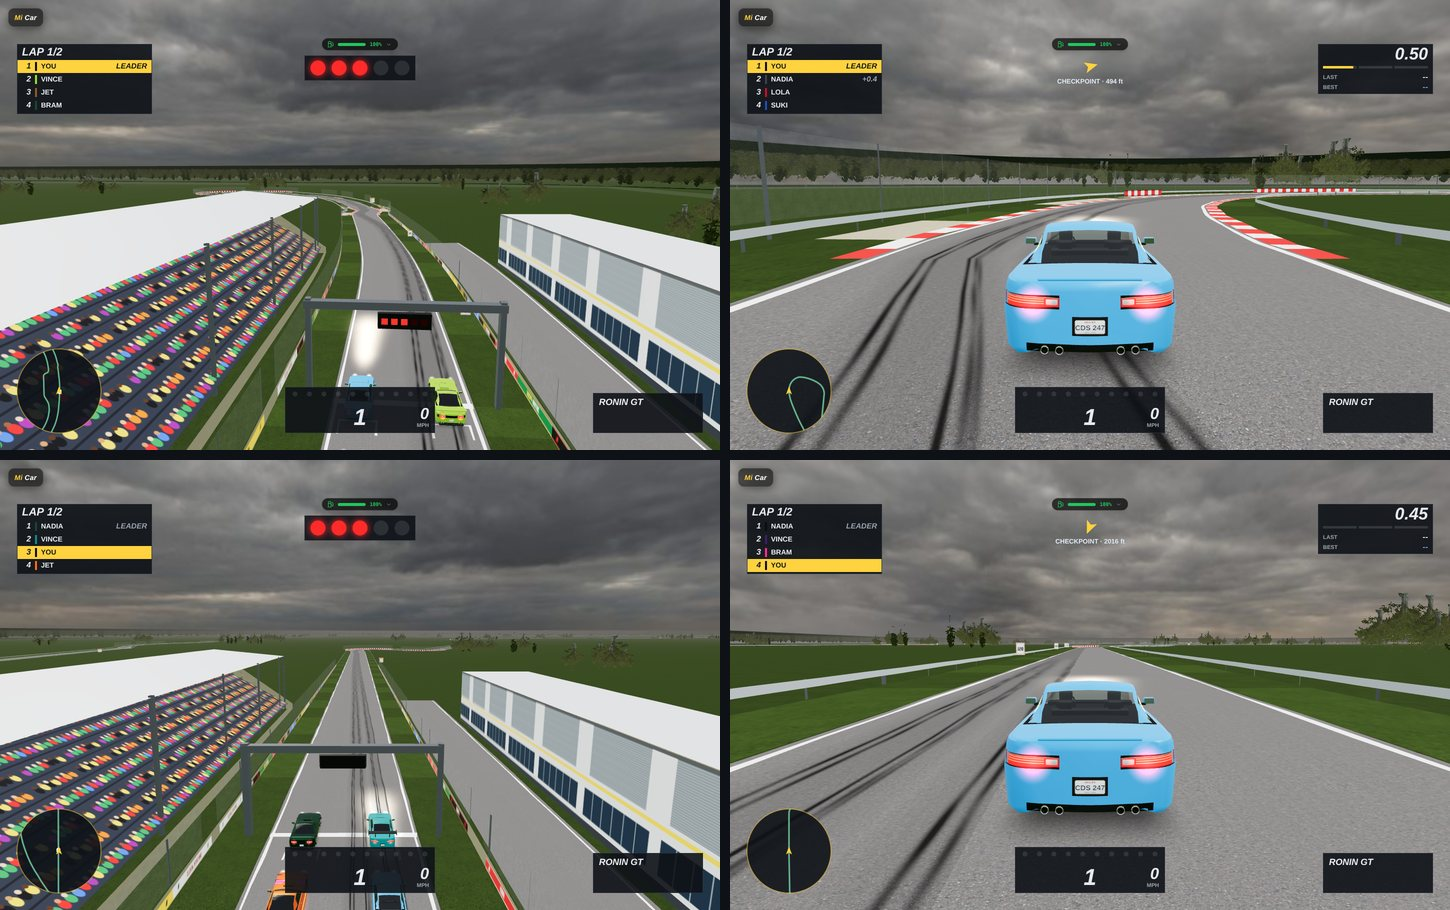
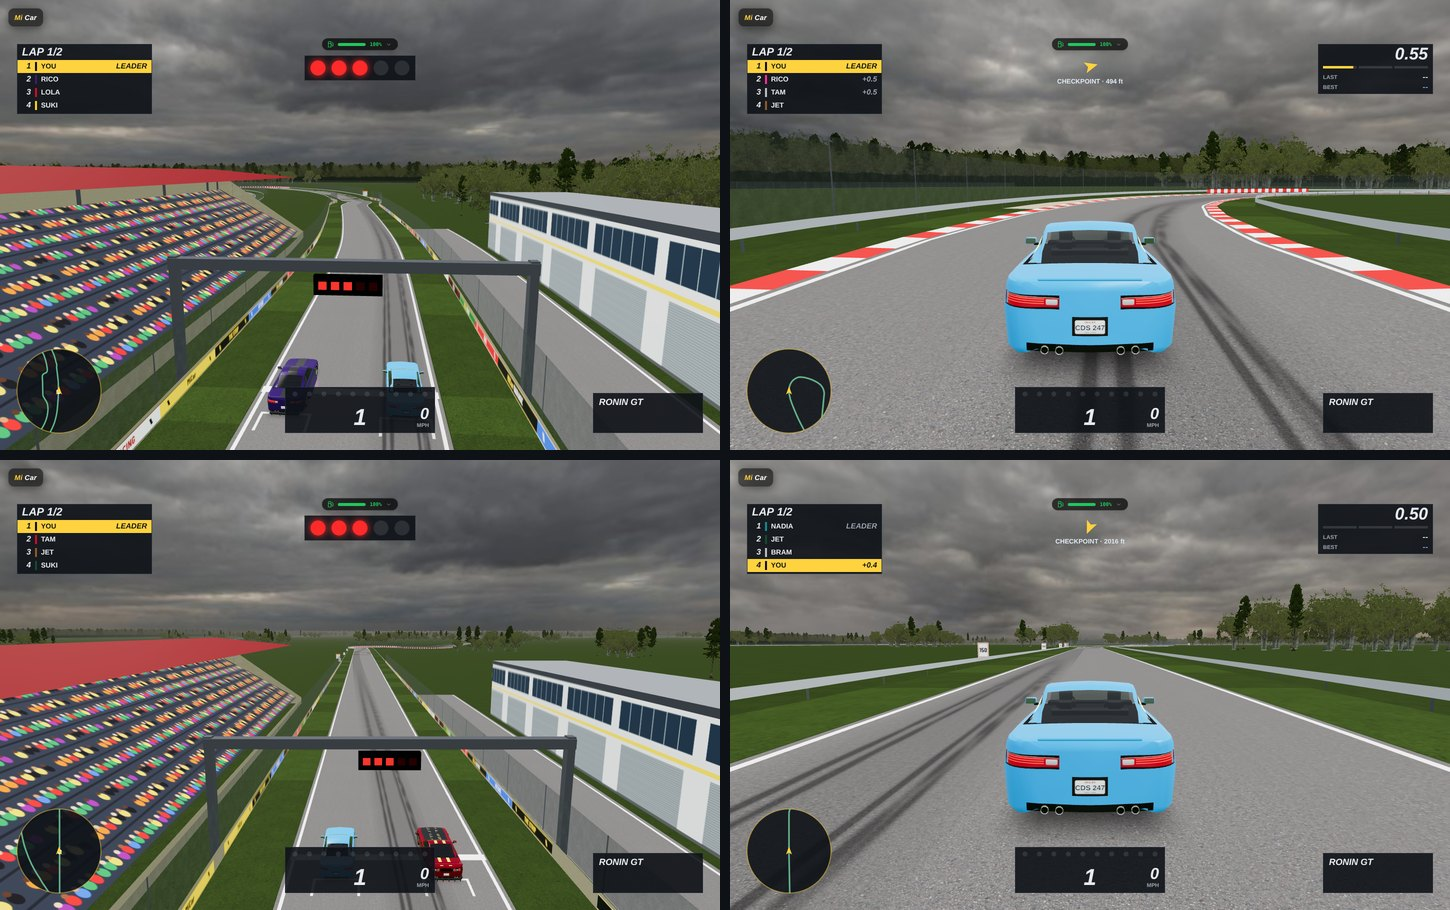
Race UI stage 2: screenshots of the final build; design notes as built
The PR montages from the final smoke run (Harbour and Ardennes on the grid, Figure Eight and
Royal Park mid-lap; the phone at Harbour and Royal Park), and section 5b of the design: what
three reviews changed, including the physics walls on five circuits.

Claude-Session: https://claude.ai/code/session_01UryQtKAC4WHUtcc2hBNj4p

diff --git a/docs/superpowers/specs/2026-11-13-track-look-design.md b/docs/superpowers/specs/2026-11-13-track-look-design.md
@@ -71,6 +71,34 @@ The first screenshots beside the clone's led to these changes (plan Task 7):
 - **The start buildings run on past the line**, as at the clone's start, so the grid sees the grandstand on its left and the pits on its right: grandstand from 120 m before the line to 50 m after, pit lane −200 to +60 m, pits −150 to +40 m. A band never sits on the inside of a bend tighter than its depth allows (its far edge within 0.6 of the radius), and trees keep 9 m clear of it. Nürburgring's start is a 37 m bend, so its pits are 60 m long.
 - **Draw calls.** The new scenery had 30 materials (the old 12), and Monaco drew 108 calls at 0.65 of the lap (the old scenery 90). Flat colours now share three palette textures made in code (marks, solid parts, lamps), and the two tree species one atlas. Each circuit has 17 or 18 materials, and the chain-link veil is drawn in one pass. The four smoke circuits draw 80–81 calls at 0.3 of the lap and 95–96 at 0.65, with 39k–65k triangles. The budget is 100 calls and 500k triangles.
 
+## 5b. As built, after three reviews
+
+Three independent reviews on the most capable model led to these changes:
+
+- **Textures stand the right way up.** The glb's UVs are glTF's (v runs down the picture), so the game no longer flips the maps. The normal maps' green is turned to match, as three's GLTFLoader does when there are no tangents. The tree line's UVs count whole tiles.
+- **Compression.** 18-bit positions and 16-bit UVs. At 14/12 bits, thin posts and kerb sides collapsed and the start lamps sank into their box. The lamps and their box now share one primitive.
+- **Nothing low inside the barrier line.**
+  - The start gantry is one frame at the line, with its legs behind the barriers.
+  - Braking boards stand 0.7 m behind the barrier line.
+  - The grandstand has a red canopy, held by posts behind the back row.
+  - Painted and steel parts take less sky reflection, so the canopy reads red, not pink.
+- **Kerbs, tyre walls and gravel come in runs** on real bends, using smoothed curvature, so there are no stubs.
+  - At the tightest corners, a kerb block or edge-line piece that would reach more than 0.3 m inside its own edge is left out. Otherwise it would fold across the road or cut a chord across the asphalt.
+  - Palette vertices that share a position keep their own UVs, so no encoder can weld a box's faces and shade it round.
+- **The physics walls changed on five circuits.** This departs from section 4, and was done on purpose. On the inside of bends tighter than the barrier line, the old walls folded back over the road: Silverstone's GP route crossed a wall four times, and Monaco's wall came 3.4 m from its centreline. Those points are dropped, and each fold is bridged by a straight wall that stays more than 1 m off the road.
+  - Points near another part of the track still open the barrier, as before.
+  - Only `walls` changed in the json, on Silverstone, Suzuka, Nürburgring, Monaco and COTA, by 2–16 points each.
+  - No route crosses a wall. A flood fill of the space a car can occupy reaches nothing beyond the barrier line on any circuit.
+- **Trees and tree line.** A denser tree belt, about 950 trees in clusters of 8–16, 30–150 m out. The tree line moved 170 m out, 20 m past the perimeter fence.
+- **The cars' lamps are off on circuits**, the Garage kits' lamp glows included. The hub keeps them lit.
+- **Loading.**
+  - Cut-out trees stay hidden until their picture lands.
+  - The sky has no mipmaps, so there is no seam line.
+  - The Draco decoder runs on two workers and starts afresh after a failed load.
+  - The tracks smoke checks that each circuit's model is drawn with its textures.
+- **Export without the PC.** On 2026-11-13 the PC was offline. The circuits were exported by Blender 5.3.0 run as a Python module, which carries no Draco bridge. glTF Transform with Google's draco3d 1.5.7 (Blender 5.3's Draco) then compressed them at the same settings, without welding. Against the PC's own export of the previous revision, the json files were byte-identical and the triangles identical. A PC re-export remains the reference.
+- **Sizes and costs.** glb files are 141–187 KB each. A frame draws 79–91 calls and 41k–67k triangles.
+
 ## 6. Out of scope
 
 Elevation and terrain, city blocks for street circuits, night lighting, a grass shader, real-time shadows, KTX2 texture compression, and the hub's look.
